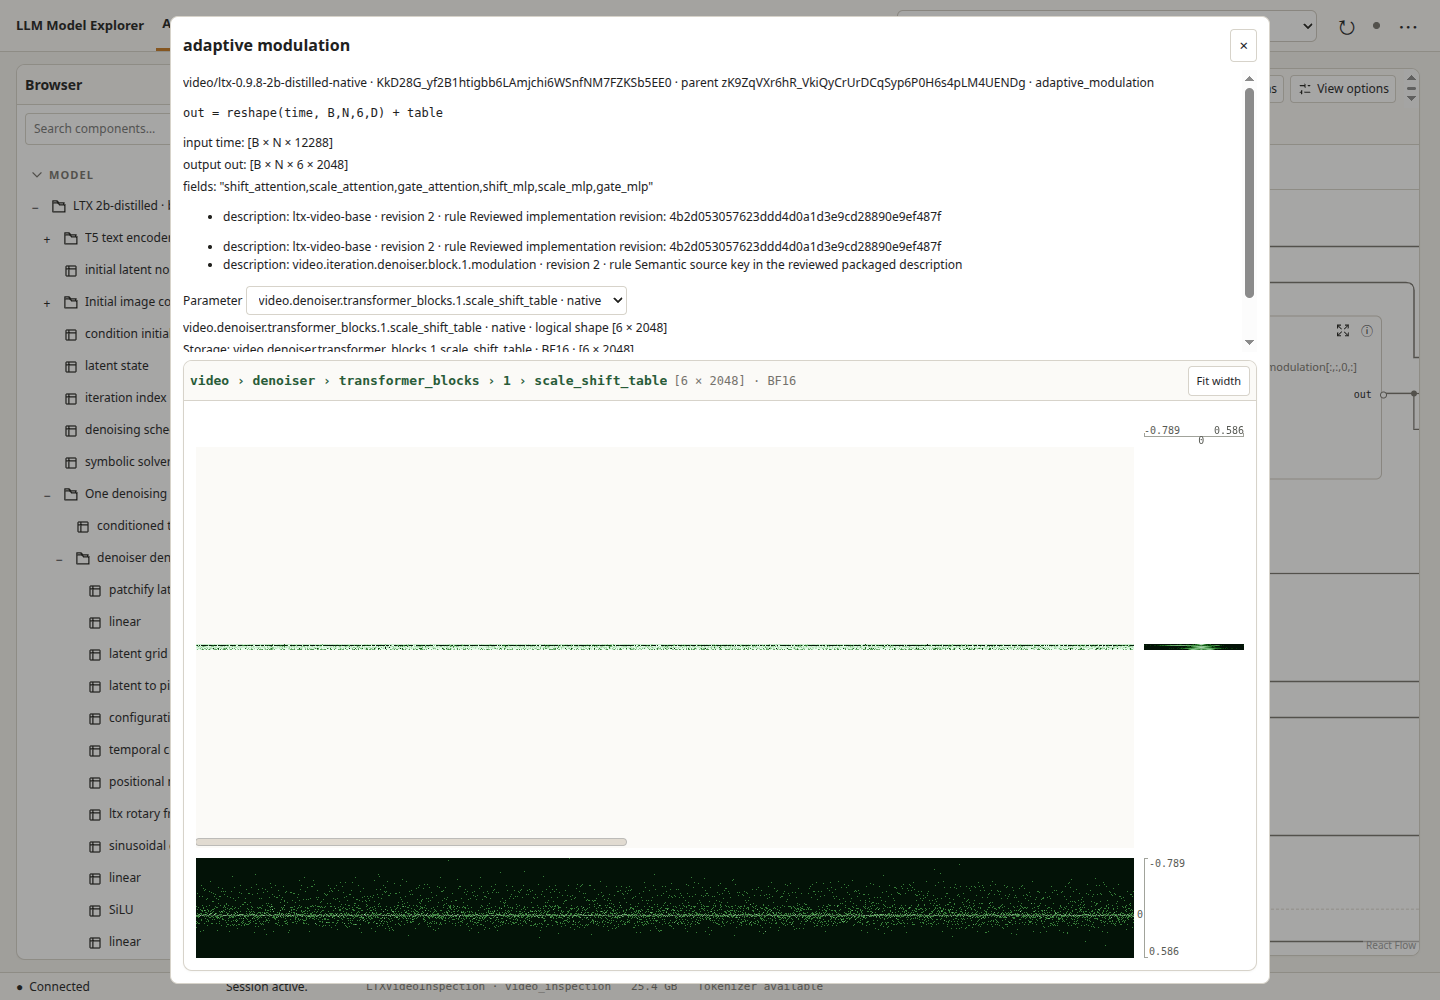
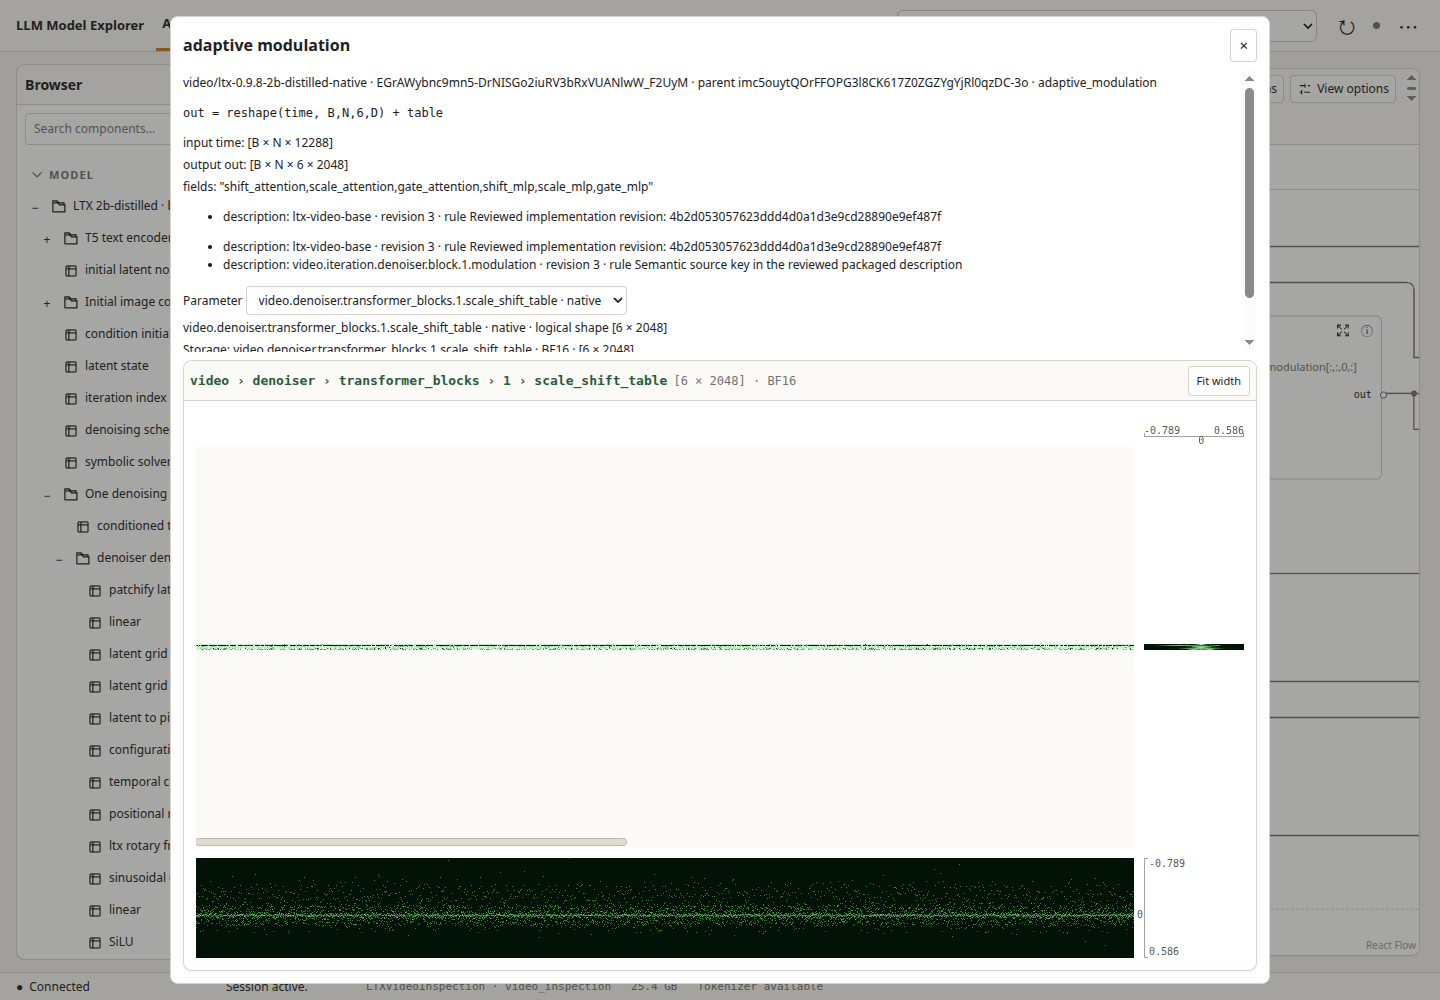
fix(architecture): separate LTX reconstruction geometry from RoPE

Changed region(s): [[0.25, 0.062, 0.8125, 0.093], [0.0625, 0.682, 0.125, 0.961]]

diff --git a/backend/tests/test_video_architecture.py b/backend/tests/test_video_architecture.py
@@ -239,6 +239,30 @@ def test_source_specific_positional_dependencies(graph: tuple[str, r.Architectur
     assert attributes(frequencies)["frequency_count"] == 341
     assert attributes(frequencies)["identity_prefix"] == 2
 
+    # The pinned pipeline's unpatchify takes latent geometry, independently of
+    # its frame-rate-dependent RoPE. Its grid must describe T,H,W, not cos/sin.
+    unpatchify = next(n for n in document.nodes if n.operation == "unpatchify_latents")
+    grid_inputs = [
+        e.source
+        for e in document.edges
+        if e.target.node_id == unpatchify.id and e.target.port_id == "grid"
+    ]
+    assert len(grid_inputs) == 1
+    geometry = by_id[grid_inputs[0].node_id]
+    assert geometry.operation == "latent_grid_shape", "Unpatchify needs geometry, not RoPE"
+    assert geometry.formula == "out = shape(latent)[-3:]"
+    assert attributes(geometry)["axes"] == "time,height,width"
+    assert {p.id for p in geometry.ports if p.direction == "input"} == {"latent"}
+    assert (denoiser.id, "latent", geometry.id, "latent") in edges
+    dimensions = [r.ArchitectureConstantDimension(kind="constant", value=3)]
+    assert next(p for p in geometry.ports if p.id == "out").shape == dimensions
+    assert next(p for p in unpatchify.ports if p.id == "grid").shape == dimensions
+    assert next(p for p in unpatchify.ports if p.id == "out").shape == [
+        r.ArchitectureSymbolDimension(kind="symbol", name="B"),
+        r.ArchitectureConstantDimension(kind="constant", value=128),
+        *(r.ArchitectureSymbolDimension(kind="symbol", name=name) for name in ("T", "H", "W")),
+    ]
+
     # Evaluate only the explicitly bounded displayed expression, not an inference
     # implementation. This guards division, axis/layout and unchanged spatial
     # coordinates with independent examples: frame 8 is .32 s at 25 fps, .16 at 50.
@@ -254,9 +278,11 @@ def test_source_specific_positional_dependencies(graph: tuple[str, r.Architectur
 
     rotations = [n for n in document.nodes if n.operation == "rotary_embedding_3d"]
     assert len(rotations) == 56  # Q and K in each of 28 real blocks, including block 1.
+    rotary_blocks = set()
     for rotation in rotations:
         attention = by_id[rotation.parent_id]  # type: ignore[index]
         block = by_id[attention.parent_id]  # type: ignore[index]
+        rotary_blocks.add(block.id)
         assert {
             (frequencies.id, "out", block.id, "frequencies"),
             (block.id, "frequencies", attention.id, "frequencies"),
@@ -268,6 +294,11 @@ def test_source_specific_positional_dependencies(graph: tuple[str, r.Architectur
         assert attributes(rotation)["rotate_pairs"] == "(a,b) -> (-b,a)"
         heads = [by_id[e.target.node_id] for e in document.edges if e.source.node_id == rotation.id]
         assert len(heads) == 1 and heads[0].operation == "split_heads"
+    assert {
+        (e.target.node_id, e.target.port_id)
+        for e in document.edges
+        if e.source.node_id == frequencies.id
+    } == {(block, "frequencies") for block in rotary_blocks}
 
 
 @pytest.mark.parametrize(

diff --git a/backend/src/llm_model_explorer/architecture_analysis/video_transformers.py b/backend/src/llm_model_explorer/architecture_analysis/video_transformers.py
@@ -398,10 +398,22 @@ def denoiser(
             stride=[1, 2, 2],
             output_layout="flatten spatial-temporal axes to B,N,D",
         )
-    positions = (
-        ltx_rotary_frequencies(g, key, ports["latent"], ports["configuration"], profile)
-        if ltx
-        else g.op(
+    frequencies: Value | None = None
+    if ltx:
+        grid = g.op(
+            key + ".geometry",
+            key,
+            "latent_grid_shape",
+            {"latent": ports["latent"]},
+            shape(3),
+            formula="out = shape(latent)[-3:]",
+            axes="time,height,width",
+        )
+        frequencies = ltx_rotary_frequencies(
+            g, key, ports["latent"], ports["configuration"], profile
+        )
+    else:
+        grid = g.op(
             key + ".positions",
             key,
             "latent_grid_positions",
@@ -410,7 +422,7 @@ def denoiser(
             axes="time,height,width",
             causal_temporal_positioning=False,
         )
-    )
+    rotary_inputs = {"frequencies": frequencies} if frequencies is not None else {"positions": grid}
     timestep = g.op(
         key + ".time_embedding",
         key,
@@ -463,7 +475,7 @@ def denoiser(
                 "x": x,
                 "context": ctx,
                 "modulation": modulation,
-                "frequencies" if ltx else "positions": positions,
+                **rotary_inputs,
                 "text_mask": ports["text_mask"],
             },
             layer_index=index,
@@ -504,8 +516,8 @@ def denoiser(
             source + (".attn1" if ltx else ".self_attn"),
             heads=profile.heads,
             family=profile.family,
-            positions=None if ltx else p["positions"],
-            frequencies=p["frequencies"] if ltx else None,
+            positions=p.get("positions"),
+            frequencies=p.get("frequencies"),
         )
         gated = g.op(
             block + ".gate_attention",
@@ -583,7 +595,7 @@ def denoiser(
         key + ".unpatchify",
         key,
         "unpatchify_latents",
-        {"x": x, "grid": positions},
+        {"x": x, "grid": grid},
         shape("B", profile.channels, "T", "H", "W"),
         patch=[1, 1, 1] if ltx else [1, 2, 2],
         layout="B,C,T,H,W",

diff --git a/backend/src/llm_model_explorer/architecture_analysis/video.py b/backend/src/llm_model_explorer/architecture_analysis/video.py
@@ -378,7 +378,7 @@ def register_video(registry: DescriptionRegistry) -> None:
 
         registry.register(
             Description(
-                Producer(f"{family}-video-base", "2" if family == "ltx" else "1", source),
+                Producer(f"{family}-video-base", "3" if family == "ltx" else "1", source),
                 "video_generation",
                 frozenset({"video_inspection"}),
                 frozenset({architecture}),

diff --git a/examples/video/evidence.md b/examples/video/evidence.md
@@ -82,7 +82,7 @@ revision, preserving its structure and navigation correspondence.
 
 ## LTX positional dependency correction
 
-LTX descriptor revision 2 carries frame rate from the semantic configuration to
+LTX descriptor revision 3 carries frame rate from the semantic configuration to
 temporal coordinates and the Q/K rotary path in every block. The reviewed
 [pipeline](https://github.com/Lightricks/LTX-Video/blob/4b2d053057623ddd4d0a1d3e9cd28890e9ef487f/ltx_video/pipelines/pipeline_ltx_video.py#L1143-L1149),
 [coordinate conversion](https://github.com/Lightricks/LTX-Video/blob/4b2d053057623ddd4d0a1d3e9cd28890e9ef487f/ltx_video/models/autoencoders/vae_encode.py#L176-L208)
@@ -92,19 +92,25 @@ frequency grid. LTX rotates paired channels across the full projected width
 before splitting attention heads. The 0.9.6 causal coordinate correction is
 explicit; 0.9.8 retains the reviewed default without that correction.
 
-The regression first failed for both LTX releases on the previous implementation
-(two failed, three Wan controls passed), then passed for all five profiles.
-The final focused video/graph/service suite passed 388 cases in 37.69 seconds;
+Unpatchification receives a separate three-element `T,H,W` value derived from the
+latent shape, following the pinned [pipeline call](https://github.com/Lightricks/LTX-Video/blob/4b2d053057623ddd4d0a1d3e9cd28890e9ef487f/ltx_video/pipelines/pipeline_ltx_video.py#L1297-L1306)
+and [patchifier](https://github.com/Lightricks/LTX-Video/blob/4b2d053057623ddd4d0a1d3e9cd28890e9ef487f/ltx_video/models/transformers/symmetric_patchifier.py#L62-L78).
+Rotary frequencies feed only the attention blocks, never the reconstruction grid.
+
+The frame-rate and geometry regressions each failed for both LTX releases before
+their respective repairs (two failed, three Wan controls passed). Both assertions
+remain in the final passing five-profile test. The focused video/graph/service
+suite passed 388 cases in 49.03 seconds;
 Ruff, formatting and mypy passed. A fresh installed-wheel smoke passed 18 cases
-in 58.29 seconds. Full serialized metadata graphs for all three Wan profiles
+in 69.34 seconds. Full serialized metadata graphs for all three Wan profiles
 retained their exact SHA-256 hashes, while both LTX graph identities changed.
 Only the LTX producer revision changed; unrelated analyzer identities are stable.
 
-A fresh production build and complete-package LTX browser run passed in 56.8
+A fresh production build and complete-package LTX browser run passed in 66.7
 seconds, including native block-1 weight inspection. The retained 25,391,240,842-byte
[1 lines of base64/hex data omitted]
-with 2,300 nodes and 1,160 parameters. Observed preparation was 33.396 seconds
-(29.320 seconds hashing; 2.460 seconds analysis). The LTX captures above are from
[1 lines of base64/hex data omitted]
+with 2,301 nodes and 1,160 parameters. Observed preparation was 40.146 seconds
+(33.592 seconds hashing; 3.602 seconds analysis). The LTX captures above are from
 this revision. Export and original-file numerical comparisons were not repeated
 for this descriptor-only correction; their earlier reports remain separately
 identified. No additional complete checkpoint acceptance is claimed.
@@ -158,7 +164,11 @@ inputs and evidence roots outside Git and use isolated browser ports.
   normalization by `[20,2048,2048]`, and full-width rotary frequencies. The regression
   checks the actual configuration-to-Q/K edges for both releases and the displayed
   expression with pixel frame 8 at 25/50 fps (0.32/0.16 seconds), preserving spatial
-  coordinates. Existing profile/graph tests cover all Wan conventions separately.
+  coordinates. The unpatchify regression additionally checks its geometry producer
+  and the three-element latent `T,H,W` shape, using the pinned pipeline's
+  `unpatchify` call as its oracle. Frequencies may feed only the attention blocks;
+  they cannot substitute for reconstruction dimensions. Existing profile/graph
+  tests cover all Wan conventions separately.
 - Backend storage owns FP8 admission and numerical correctness. Hand-written
   E4M3FN bytes for `[1, -2, 0.5]`, weight scale `0.25`, and a distinct input
   scale must produce `[0.25, -0.5, 0.125]`. Exercise partial/chunk/ordered-row
